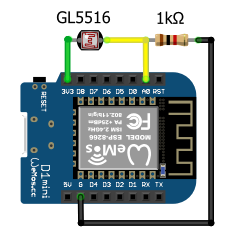
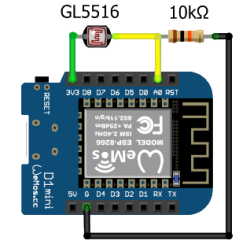
fixed gl5516 and added bme680
closes #5

diff --git a/src/pixelit/hardware.md b/src/pixelit/hardware.md
@@ -4,12 +4,12 @@
 
 #### Minimalaufbau (Basis)
 
-| **Menge** | **Name**                        |               **Link**                |     **Hinweis**    |
-| :-------: | ------------------------------- | :-----------------------------------: | :----------------: |
-|     1     | WS2812B LED Matrix 8x32         | [click here](https://amzn.to/2UQGo2l) | <- eins von beiden |
-|     4     | WS2812B LED Matrix CJMCU 8x8    | [click here](https://amzn.to/3v1RDqe) | <- eins von beiden |
-|     1     | Wemos D1 Mini (oder Clone)      | [click here](https://amzn.to/2Df5v7M) |                    |
-|     1     | Kondensator 1000uF              | [click here](https://amzn.to/2DktrGV) |                    |
+| **Menge** | **Name**                     |               **Link**                |    **Hinweis**     |
+| :-------: | ---------------------------- | :-----------------------------------: | :----------------: |
+|     1     | WS2812B LED Matrix 8x32      | [click here](https://amzn.to/2UQGo2l) | <- eins von beiden |
+|     4     | WS2812B LED Matrix CJMCU 8x8 | [click here](https://amzn.to/3v1RDqe) | <- eins von beiden |
+|     1     | Wemos D1 Mini (oder Clone)   | [click here](https://amzn.to/2Df5v7M) |                    |
+|     1     | Kondensator 1000uF           | [click here](https://amzn.to/2DktrGV) |                    |
 
 ![](/hardware_basis.png)
 
@@ -44,7 +44,7 @@
 | :-------: | -------- | :-----------------------------------: |
 |     1     | BME680   | [click here](https://amzn.to/3GfOHMA) |
 
-![](/hardware_bme280.png)
+![](/hardware_bme680.png)
 
 #### DFPlayer Mini Upgrade (MP3 Player)
 
